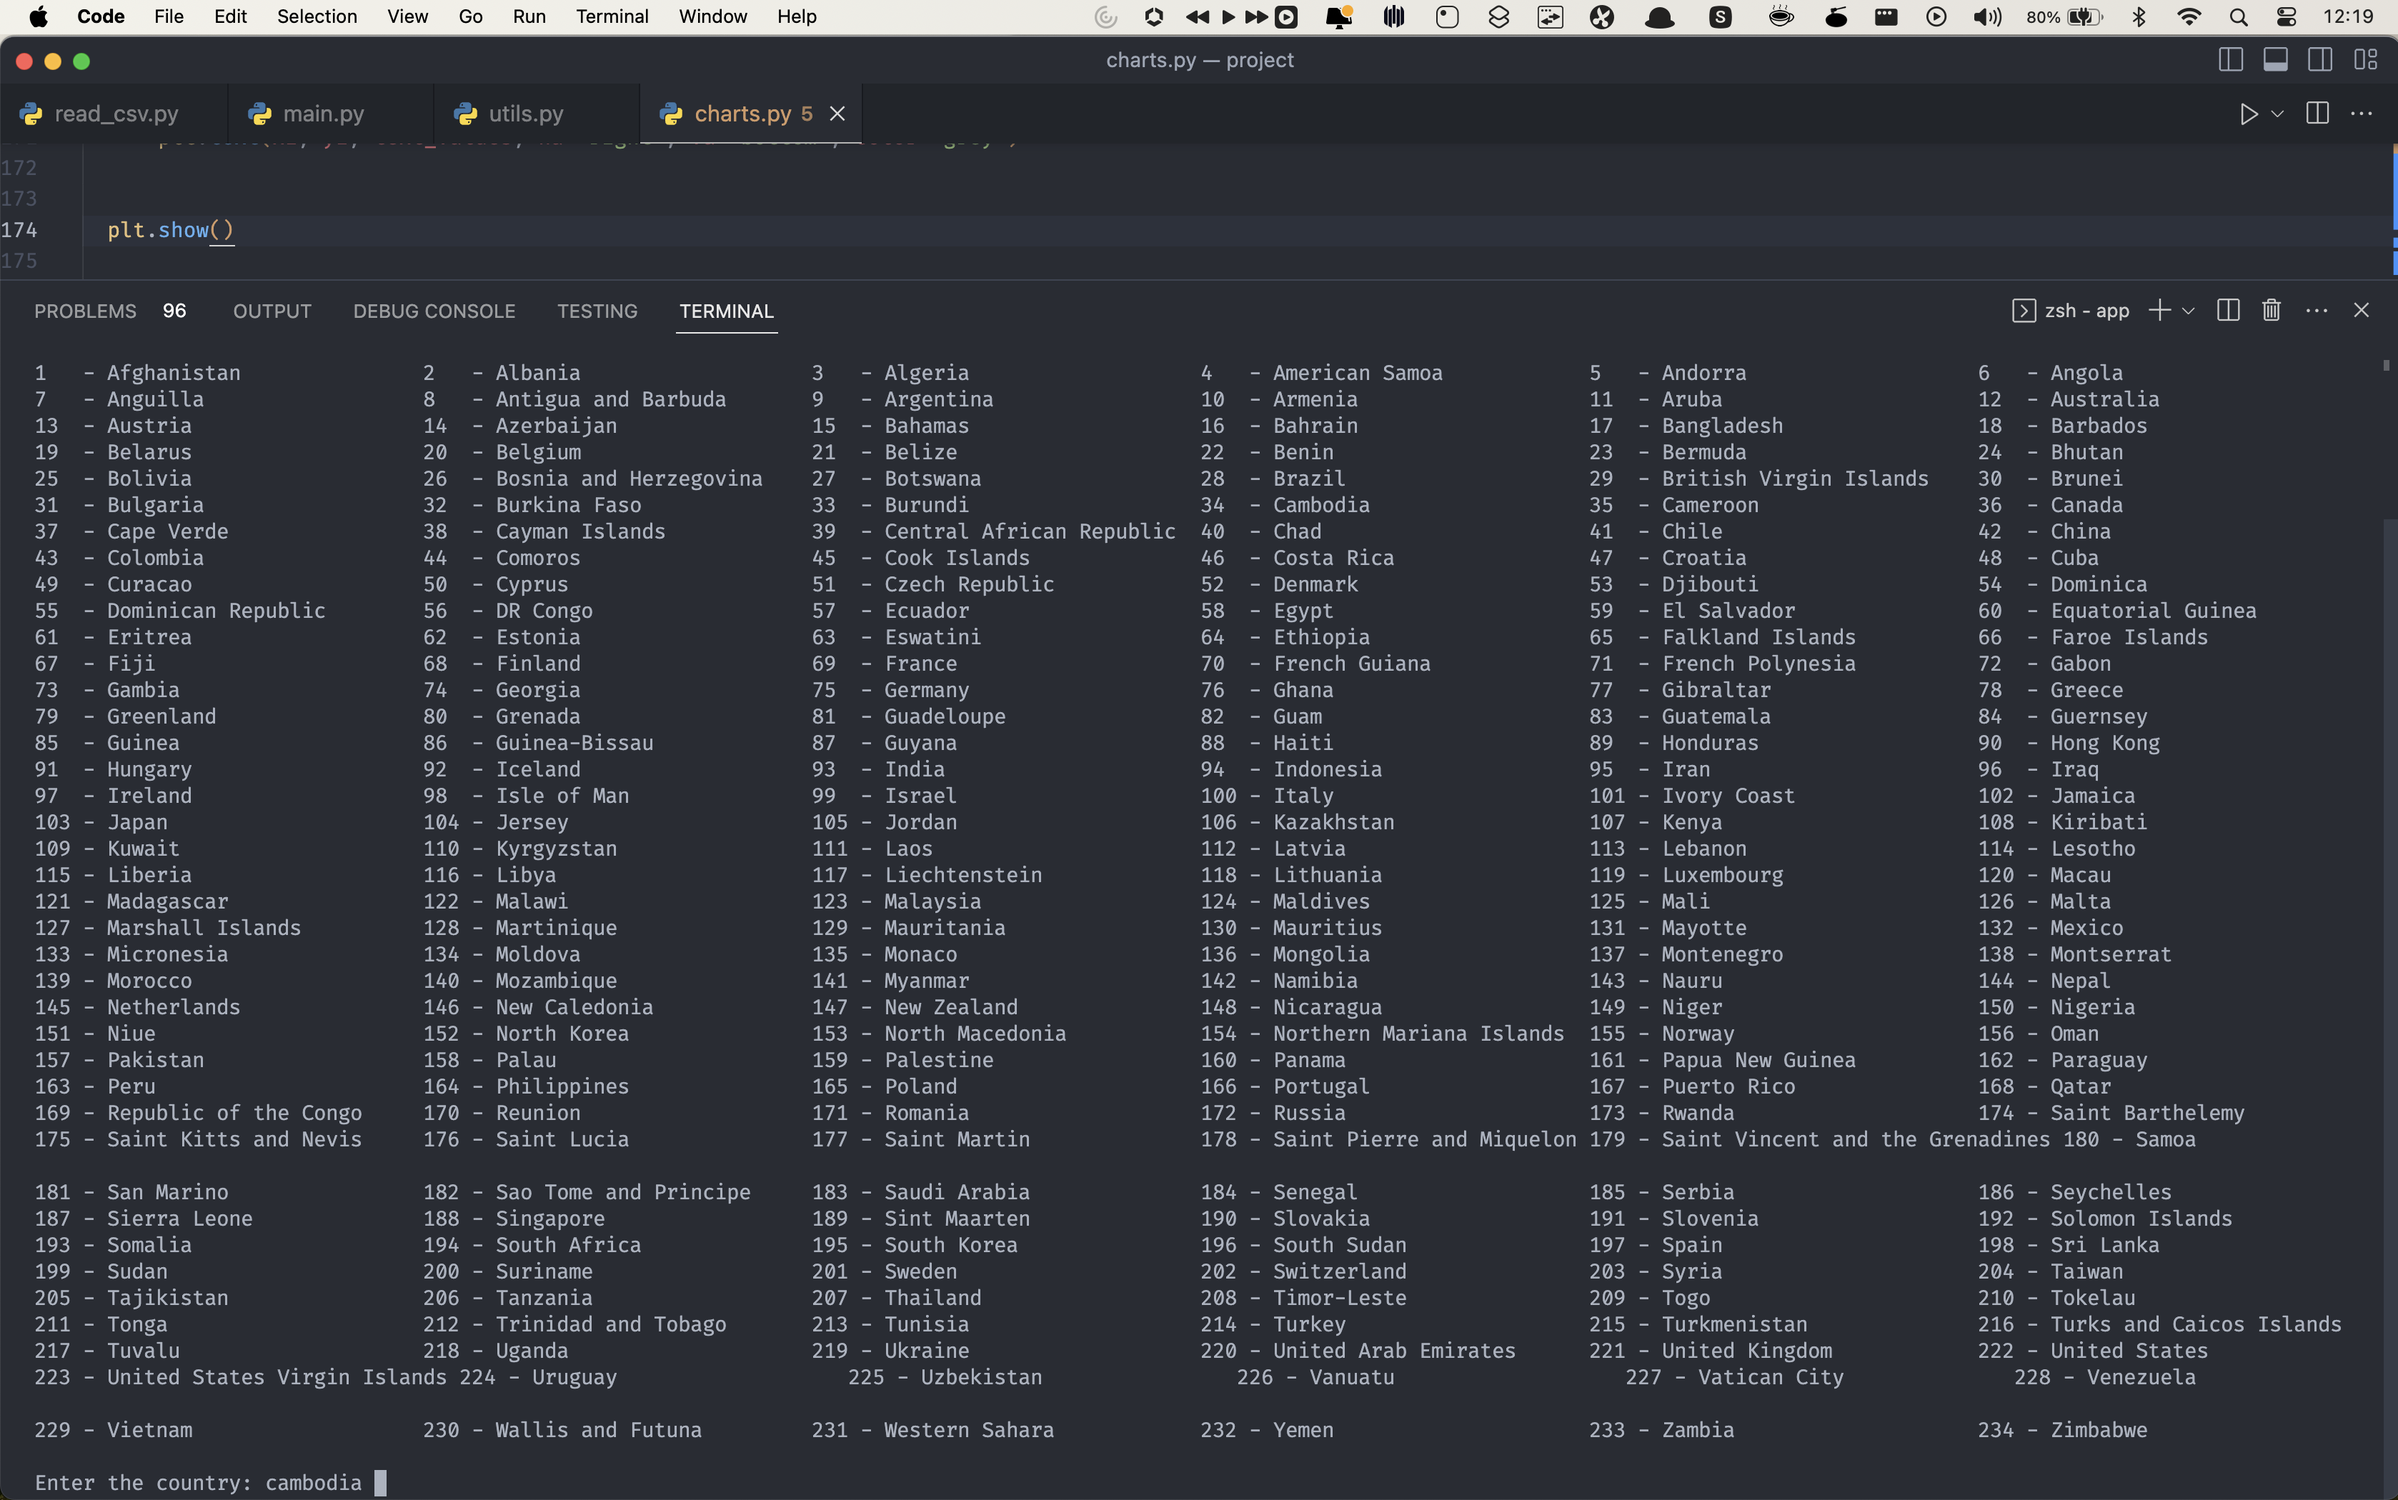
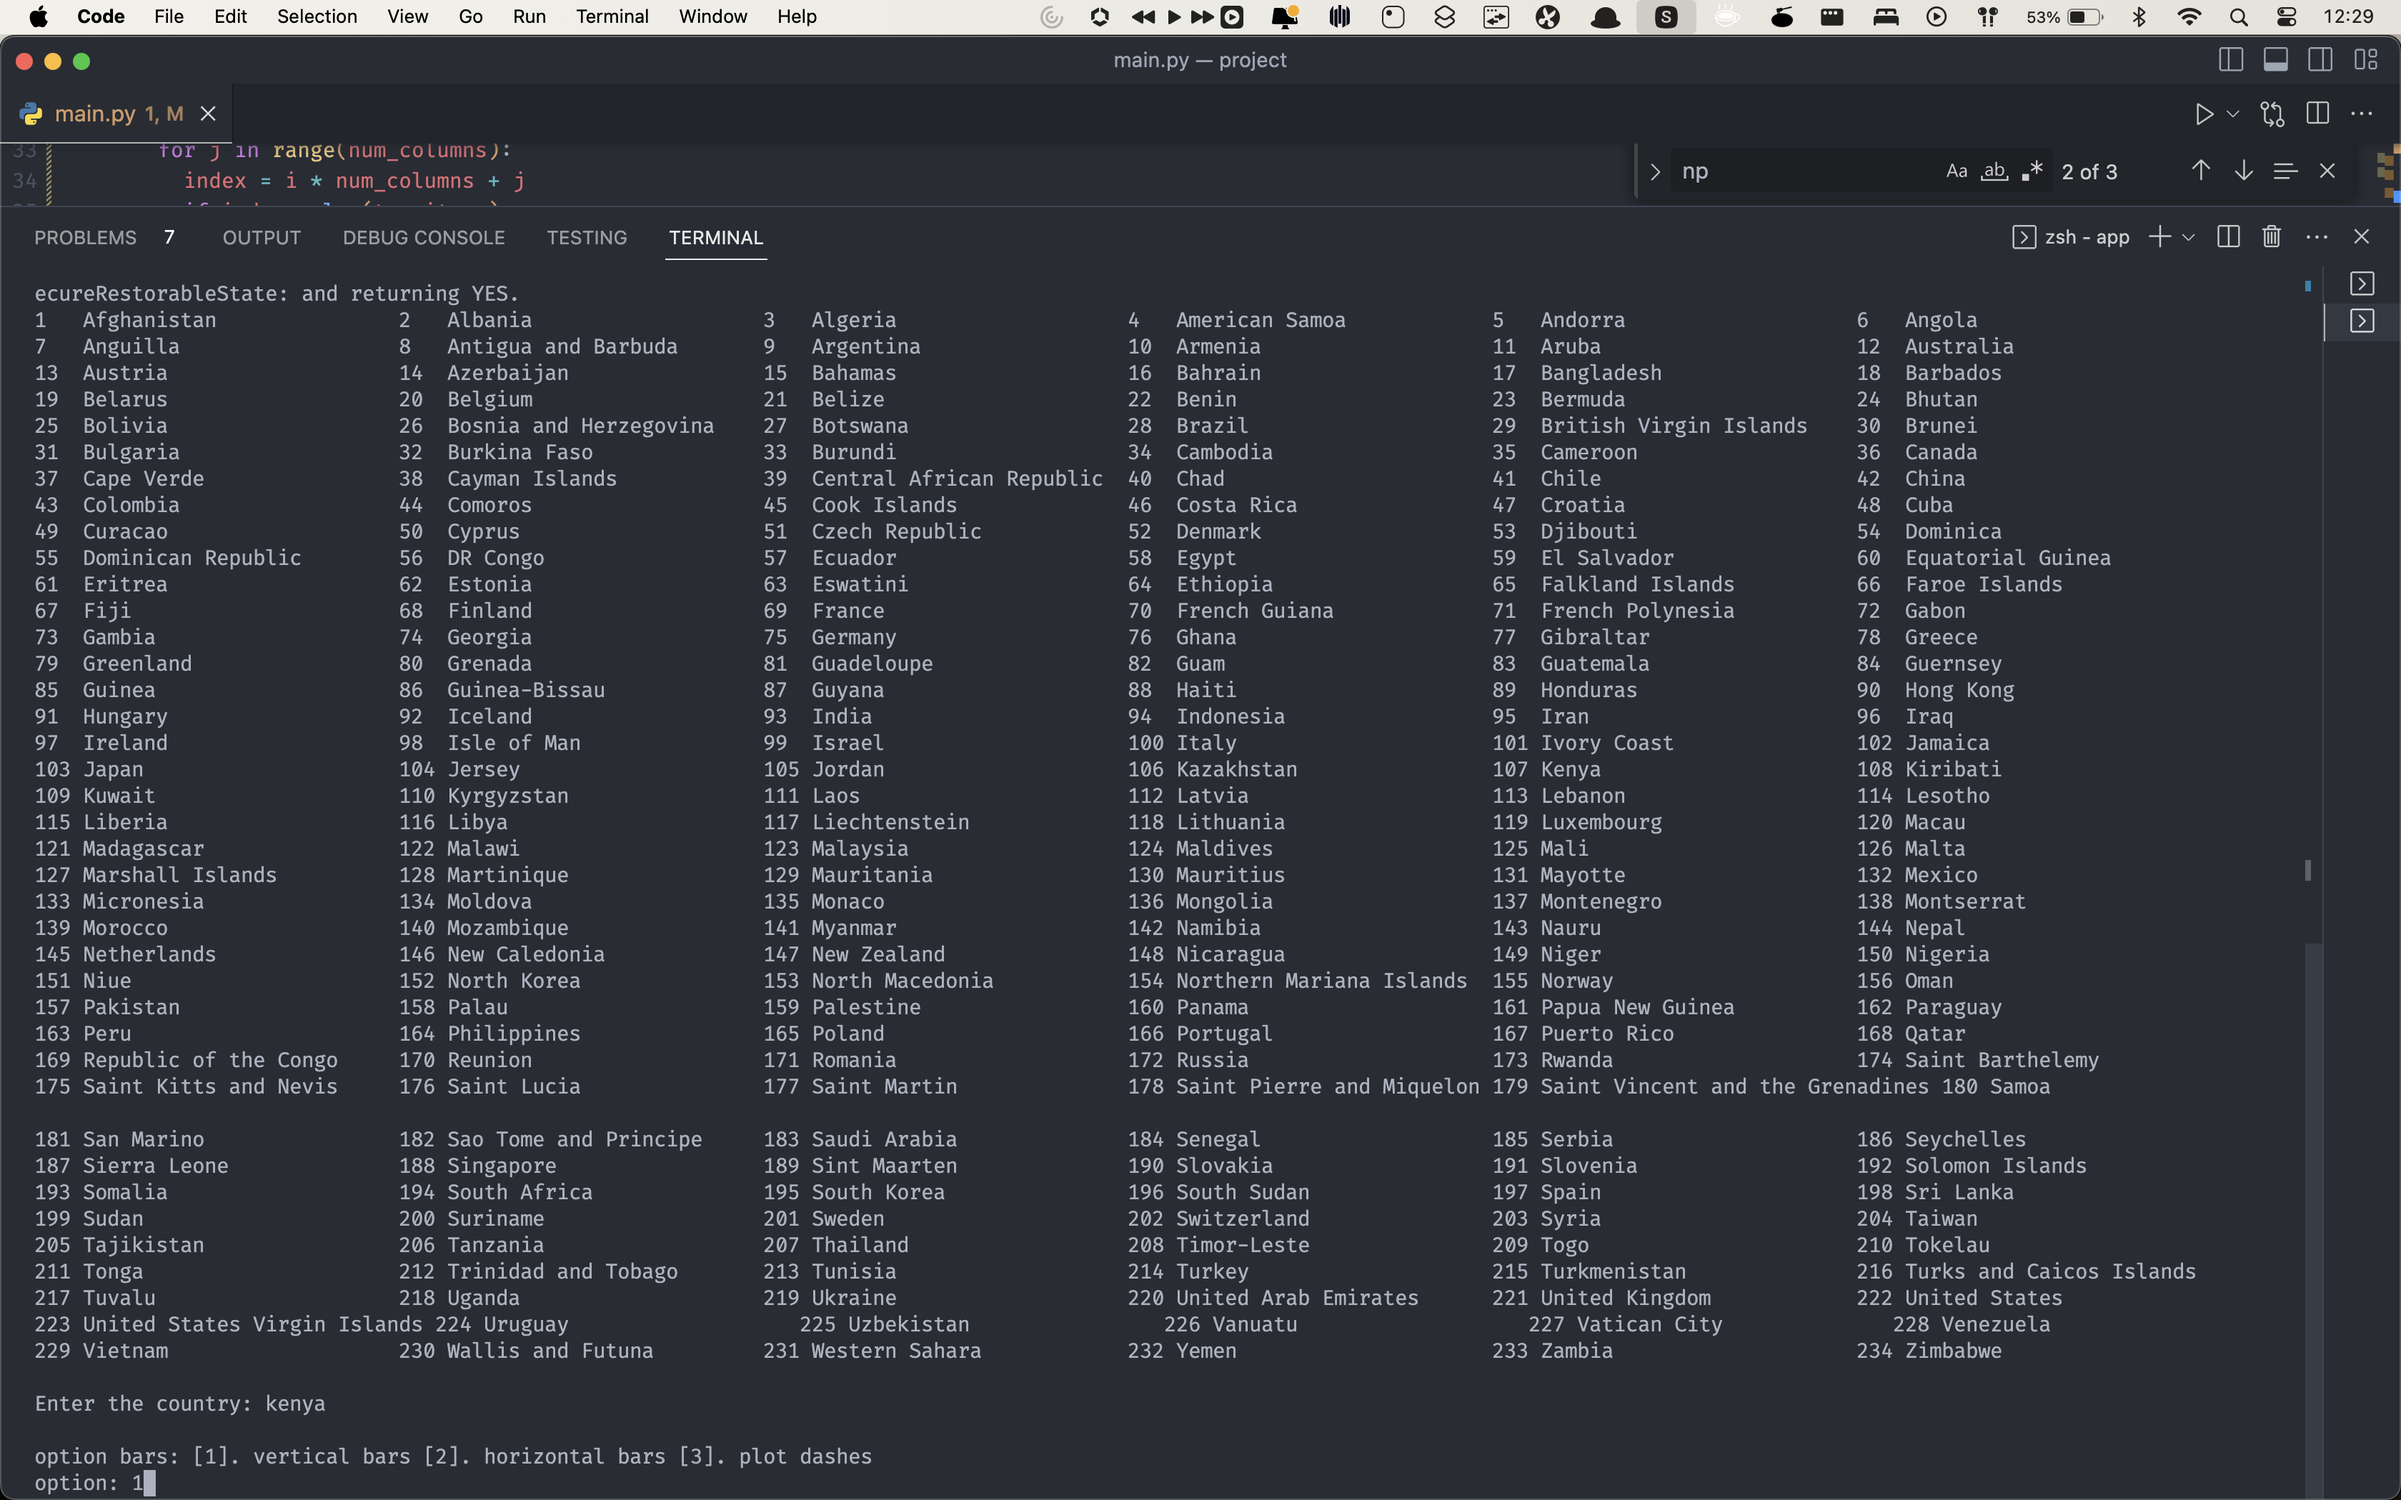
update readme

diff --git a/src/charts.py b/src/charts.py
@@ -8,8 +8,6 @@ from src.utils import get_population
 def generate_bar_chart(labels, values, country, capital, continet): 
   fig, ax = plt.subplots(figsize=(9, 6))
   palette = ['blue', 'red', 'green', 'grey', 'maroon', 'pink', 'orange', 'purple']
-  # palette = ['#4400FF', '#FF0040', '#4DFF00', '#9FA19E', '#DE1451', '#E807D9', '#ED6115', '#33CBE6']
-  # plt.plot(labels, values, linestyle='dashed', color='grey', linewidth=1, marker='o', markerfacecolor="blue", markersize=2)
   bars = ax.bar(labels, values, width=0.87, color=palette)
   ax.spines['right'].set_visible(False)
   ax.spines['top'].set_visible(False)
@@ -48,12 +46,8 @@ def generate_bar_chart(labels, values, country, capital, continet):
     plt.gca().yaxis.set_major_formatter(FuncFormatter(format_population))
 
     if height >= 1000000:
-      # upper_yaxis = (lambda x, pos: '{0:g}M'.format(x/1e6))
-      # ax.yaxis.set_major_formatter(mticker.FuncFormatter(upper_yaxis))
       text_values = "{:.3f}M".format(num)
     else:
-      # lower_yaxis = (lambda x, pos: '{0:g}K'.format((x/1e6) * 1000))
-      # ax.yaxis.set_major_formatter(mticker.FuncFormatter(lower_yaxis))
       text_values = "{:.3f}k".format(num * 1000)
 
     ax.text(bar.get_x() + bar.get_width() / 2, height, text_values, ha='center', va='bottom', fontsize=8, fontweight='bold')
@@ -112,17 +106,14 @@ def generate_barh_chart(objects, performance, country, capital, continent):
     plt.gca().xaxis.set_major_formatter(FuncFormatter(format_population))
 
     if width >=1000000:
-      # upper_yaxis = (lambda x, pos: '{0:g}M'.format(x/1e6))
-      # ax.xaxis.set_major_formatter(mticker.FuncFormatter(upper_yaxis))
       text_values = "{:.3f}M".format(num)
     else:
-      # lower_yaxis = (lambda x, pos: '{0:g}K'.format((x/1e6) * 1000))
-      # ax.xaxis.set_major_formatter(mticker.FuncFormatter(lower_yaxis))
       text_values = "{:.3f}k".format(num * 1000)
 
     plt.text(i.get_width()+0.2, i.get_y()+0.27, text_values, fontsize=8, fontweight='bold', color='grey')
 
   plt.show()
+
 
 def generate_plotdashed_chart(x_points, y_points, country, capital, continent):
   fig, ax = plt.subplots(figsize=(9,6))
@@ -159,15 +150,10 @@ def generate_plotdashed_chart(x_points, y_points, country, capital, continent):
           return f'{value:.0f}'
     plt.gca().yaxis.set_major_formatter(FuncFormatter(format_population))
 
-
     if yi >= 1000000:
-      # upper_yaxis = (lambda x, pos: '{0:g}M'.format(x/1e6))
-      # ax.yaxis.set_major_formatter(mticker.FuncFormatter(upper_yaxis))
       text_values = "{:.3f}M".format(num)
       plt.text(xi, yi, text_values, ha='right', va='bottom', color='grey')
     else:
-      # lower_yaxis = (lambda x, pos: '{0:g}K'.format((x/1e6) * 1000))
-      # ax.yaxis.set_major_formatter(mticker.FuncFormatter(lower_yaxis))
       text_values = "{:.3f}K".format(num * 1000)
       plt.text(xi, yi, text_values, ha='right', va='bottom', color='grey')
   

diff --git a/main.py b/main.py
@@ -1,21 +1,20 @@
 import src.read_csv as read_csv
 from src.utils import get_population, population_by_country
 from src.charts import generate_bar_chart, generate_barh_chart, generate_plotdashed_chart, generate_plot_line_chart
-import pandas as pd
 from shutil import get_terminal_size
 
 def run():
     data = read_csv.read_csv('./db/data.csv')
 
     continents = ['North America', 'South America', 'Asia', 'Europe', 'Oceania', 'Africa']
-    num_columns = 1
+    num_columns = 6
     num_rows = len(continents) // num_columns + (len(continents) % num_columns > 0)
     print()
     for i in range(num_rows):
       for j in range(num_columns):
           index = i * num_columns + j
           if index < len(continents):
-            print(f'{index + 1:<4}- {continents[index]:<25}', end='')
+            print(f'{index + 1:<4}{continents[index]:<25}', end='')
     print()
     
     continent_ = input("\nType the continent: ").strip().title()
@@ -33,7 +32,7 @@ def run():
        for j in range(num_columns):
           index = i * num_columns + j
           if index < len(territory):
-             print(f'{index + 1:<4}- {territory[index]:<25}', end=' ')
+             print(f'{index + 1:<4}{territory[index]:<25}', end=' ')
        print()
 
     country = input("\nEnter the country: ").strip().title()

diff --git a/README.md b/README.md
@@ -2,47 +2,45 @@
 
 This Python project provides a simple and effective visualization of the evolution of the world population over different years. It utilizes the `matplotlib` library to generate a line chart displaying population trends over time.
 
-## Requirements
+#### Requirements
 
 Make sure you have Python installed. You can install the necessary dependencies by running:
-pip3 install -r requirements.txt
+- pip3 install -r requirements.txt
 
 #### Clone the repository
 git clone https://github.com/brunomaldonado/World-Demographics.git
 
 #### Run the script
-cd World-Demographics 
-python3 main.py
+- `cd World-Demographics `
+- `python3 main.py`
 
 This will generate a chart showing the world population over the years.
 
 Data by continent.
 <p align="center">
-  <img src="./images/european_continent.png" alt="europe chart">
+  <img src="./images/north_america.png" style="border-radius:6px" alt="europe chart">
 </p>
 
-Data Countries.
+Data countries.
 <p align="center">
-  <img src="./images/countries.png" alt="europe chart">
+  <img src="./images/countries.png" style="border-radius:6px" alt="europe chart">
 </p>
 <p align="center">
-  <img src="./images/timor-leste.png" alt="europe chart">
+  <img src="./images/timor_leste.png" style="border-radius:6px" alt="europe chart">
 </p>
 <p align="center">
-  <img src="./images/indiabar.png" alt="europe chart">
+  <img src="./images/united_arab_emirates.png" style="border-radius:6px" alt="europe chart">
 </p>
 
-Customization
+#### Customization
 Feel free to customize the code to suit your specific needs. You can adjust population and year data in the main.py file according to your preferences.
 
-Contributions
+#### Contributions
 Contributions are welcome! If you find any issues or have suggested improvements, please open an issue or submit a pull request.
 
-License
-This project is licensed under the MIT License. See the LICENSE file for more details.
+##### License
+This project is licensed under the MIT License.
 
-We hope you find this World Demographics tool in Python useful! If you have any questions or comments, feel free to get in touch. Thank you for contributing to the project!
-
-Development.
-Rigoberto Bruno
+------------
+> Creator: Rigoberto Bruno Maldonado.
 
